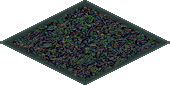
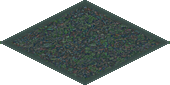
the ramp now spans grass to the forest the game ALREADY has -- and the error was mine
Owner: *"the remnant is now a bit too dark. probably because they use different grass to start with."*
**He is right, and the mistake was mine, not art's.**

| tile | mean | darkest 1% |
|---|---|---|
| grass | 79.6 | 55.7 |
| **forest, the one the game had** | **72.2** | **52.4** |
| forest, art's re-derived | **53.9** | **8.3** |

**My shade brief took its endpoint from the CODE ramp's forest hex -- luma 53.4 -- instead of from the
INSTALLED painted forest, which measures 72.2.** Art flagged exactly that discrepancy in their own note:
*"the brief's forest endpoint is not the forest the game installs... the painted ground is nineteen luma
lighter than the colour the code ramp is built from."* **Then they followed the brief anyway, which is what
a brief is for. The ramp was built to a forest 18 luma darker than the game has ever had.**

**MEASURED, and this is the whole ramp: grass 79.6 to forest 72.2 -- a 9.3% drop.** That is what "a little
darker" means on this map, **and the old forest was already it.**

**So: the three forest tiles are RESTORED to the ones that were in the game, and the wash alphas are
0.031 / 0.061 / 0.093**, which lands shade1 at 77.2, shade2 at 74.7 and forest at **72.2 -- the same value
as the remnant's own floor.** A shaded grass tile and a remnant tile now read as the same ground, which is
the rule the whole mechanic turns on.

**And `USE_PAINTED_SHADE` stays false for a second reason now:** the delivered ramp is measured against a
[…]

Changed region(s): [[0.0588, 0.0706, 0.9412, 0.9412]]

diff --git a/mistbelt/index.html b/mistbelt/index.html
@@ -1705,6 +1705,8 @@ var SHADE_CLOSES_SEED = 3;
    **So the wash draws instead -- a multiply, which moves every pixel by the same ratio and therefore
    COMPRESSES the range, the way a real shadow does.** Flip this to true when a redone ramp lands with a
    dark tail that tracks its mean; **the wash is also the floor it has to beat.** */
+/* FALSE -- and the ramp art delivered is measured against a forest that is 18 luma darker than the one
+   the game has, so it would be too dark even with a perfect dark tail. See BRIEF-SHADE-2. */
 var USE_PAINTED_SHADE = false;
 
 function needsShade(spKey) {
@@ -8164,8 +8166,20 @@ var SPR = (function () {
        ramp; **this is what draws until then, and it is also the floor the redone ramp has to beat.** */
     /* ONLY ON GRASS THAT HAS GONE SHADED. A tile whose own terrain IS forest keeps its painted tile --
        the wash is for the ground the SHADE spreads onto, not for the remnant's own floor. */
+    /* THE RAMP SPANS GRASS TO THE FOREST THE GAME ALREADY HAS, NOT TO A NUMBER IN A BRIEF.
+       Owner, 2026-10-06: *"the remnant is now a bit too dark. probably because they use different
+       grass to start with."* -- **right, and the mistake was mine.** My shade brief took its
+       endpoint from the CODE ramp's forest hex (luma 53.4) instead of from the INSTALLED painted
+       forest, which measures **72.2**. Art flagged the discrepancy in their own note and then
+       followed the brief anyway, which is what a brief is for -- so the ramp was built to a
+       darker forest than the game has ever had.
+       **MEASURED, and this is the whole ramp: grass 79.6 -> old forest 72.2, a 9.3% drop.** That
+       is what "a little darker" means on this map, and the old forest was already it.
+       So the three alphas are 0.031 / 0.061 / 0.093, which lands shade1 at 77.2, shade2 at 74.7
+       and forest at **72.2 -- the same value as the remnant's own floor.** A shaded grass tile and
+       a remnant tile now read as the same ground, which is the rule the whole mechanic turns on. */
     var _sh = t.ter !== 'grass' ? 0
-            : _ter === 'shade1' ? 0.070 : _ter === 'shade2' ? 0.121 : _ter === 'forest' ? 0.171 : 0;
+            : _ter === 'shade1' ? 0.031 : _ter === 'shade2' ? 0.061 : _ter === 'forest' ? 0.093 : 0;
     if (_sh > 0) {
       ctx.save();
       tilePath(c, r, z, TILE_K, TILE_F);
